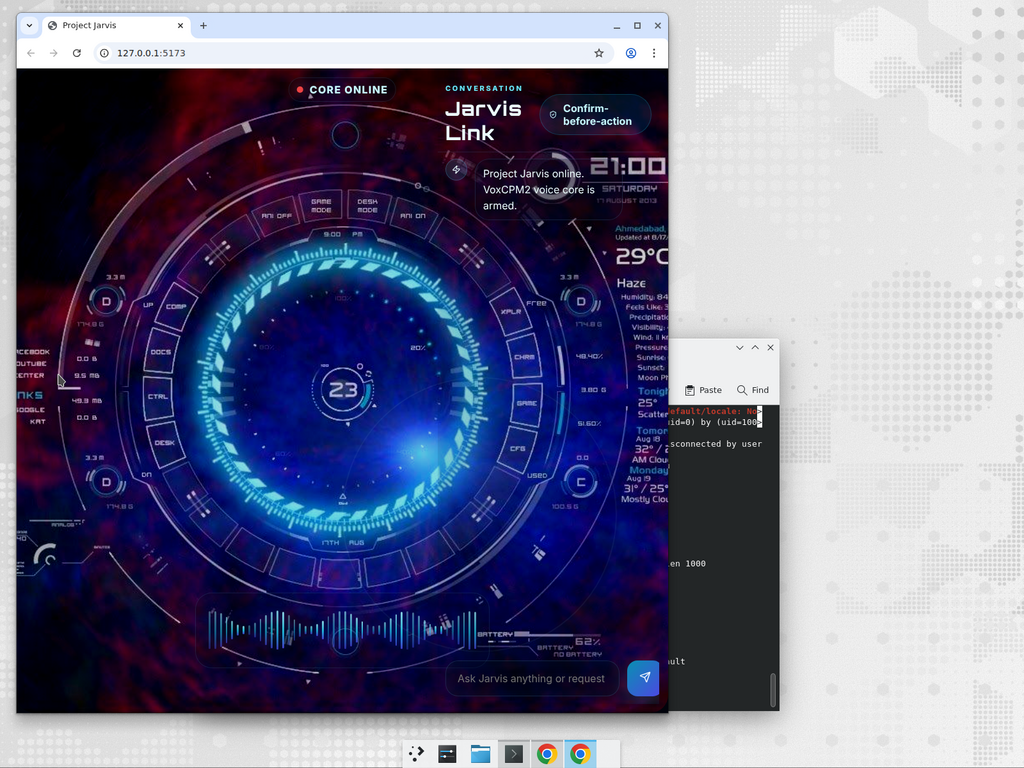
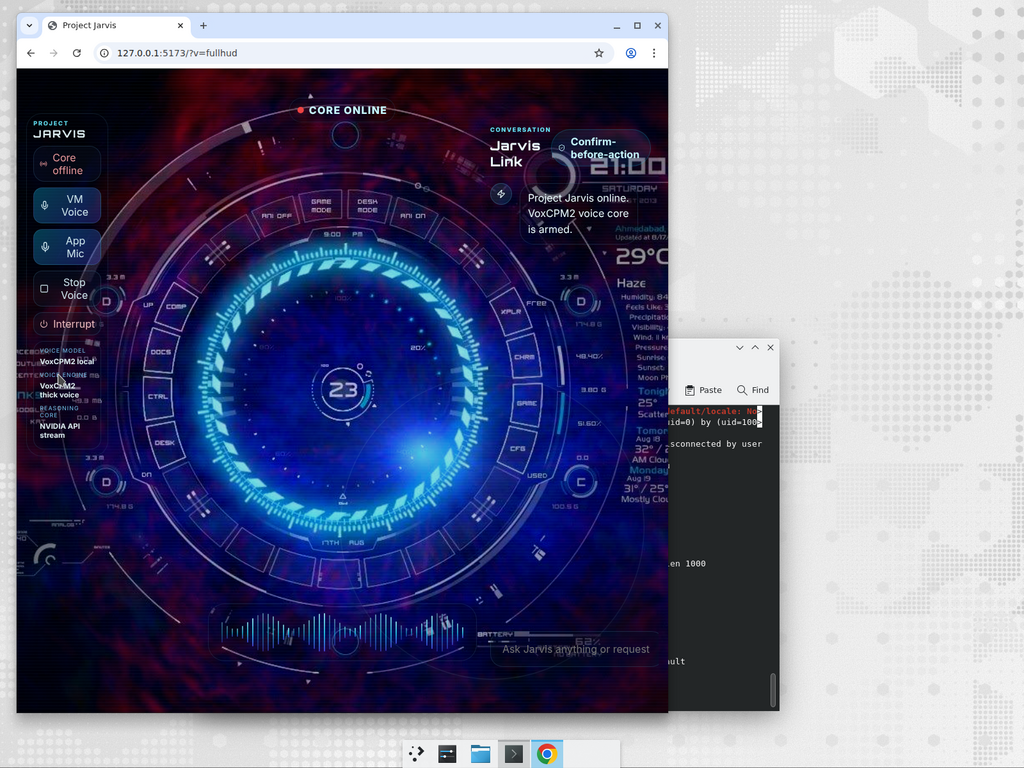
Make Jarvis desktop HUD full screen

diff --git a/jarvis-desktop/src/styles/app.css b/jarvis-desktop/src/styles/app.css
@@ -4,9 +4,7 @@
   width: 100vw;
   height: 100dvh;
   min-height: 100dvh;
-  display: grid;
-  grid-template-columns: 250px minmax(0, 1fr);
-  grid-template-rows: 100dvh;
+  display: block;
   overflow: hidden;
   background: #02040a;
 }
@@ -17,16 +15,17 @@
   width: 100%;
   height: 100%;
   object-fit: cover;
-  filter: saturate(1.25) contrast(1.08) brightness(0.82);
-  opacity: 0.98;
+  object-position: center center;
+  filter: saturate(1.28) contrast(1.08) brightness(0.95);
+  opacity: 1;
 }
 
 .hud-vignette {
   position: absolute;
   inset: 0;
   background:
-    radial-gradient(circle at 50% 46%, transparent 0 26%, rgba(2, 4, 10, 0.03) 42%, rgba(2, 4, 10, 0.38) 100%),
-    linear-gradient(90deg, rgba(2, 4, 10, 0.32), transparent 22%, transparent 72%, rgba(2, 4, 10, 0.3)),
+    radial-gradient(circle at 50% 47%, transparent 0 33%, rgba(2, 4, 10, 0.04) 52%, rgba(2, 4, 10, 0.3) 100%),
+    linear-gradient(90deg, rgba(2, 4, 10, 0.28), transparent 20%, transparent 76%, rgba(2, 4, 10, 0.2)),
     repeating-linear-gradient(180deg, rgba(125, 211, 252, 0.06), rgba(125, 211, 252, 0.06) 1px, transparent 1px, transparent 5px);
   mix-blend-mode: normal;
 }
@@ -38,23 +37,28 @@
 }
 
 .command-rail {
-  padding: 12px;
-  border-right: 1px solid rgba(125, 211, 252, 0.14);
-  background: linear-gradient(180deg, rgba(2, 6, 23, 0.1), rgba(8, 13, 28, 0.04));
-  backdrop-filter: blur(1px);
+  position: absolute;
+  left: 2.4vw;
+  top: 8vh;
+  width: 142px;
+  padding: 10px;
+  border: 1px solid rgba(125, 211, 252, 0.12);
+  border-radius: 24px;
+  background: rgba(2, 6, 23, 0.12);
+  backdrop-filter: blur(0.5px);
   display: flex;
   flex-direction: column;
   gap: 9px;
-  height: 100dvh;
+  height: auto;
   min-height: 0;
   overflow: hidden;
-  box-shadow: 30px 0 80px rgba(0, 0, 0, 0.12);
+  box-shadow: 0 0 40px rgba(34, 211, 238, 0.04);
 }
 
 .brand {
   display: flex;
   align-items: center;
-  gap: 14px;
+  gap: 8px;
   margin-bottom: 0;
 }
 
@@ -75,14 +79,14 @@
   display: block;
   color: #67e8f9;
   text-transform: uppercase;
-  letter-spacing: 0.24em;
-  font-size: 0.69rem;
+  letter-spacing: 0.18em;
+  font-size: 0.58rem;
   font-weight: 800;
 }
 
 .brand strong {
   display: block;
-  font: 800 1.28rem Orbitron, sans-serif;
+  font: 800 1rem Orbitron, sans-serif;
   letter-spacing: 0.12em;
 }
 
@@ -91,12 +95,12 @@
 .status-row {
   display: flex;
   align-items: center;
-  gap: 10px;
+  gap: 8px;
   color: #c7f9ff;
 }
 
 .connection {
-  padding: 9px 11px;
+  padding: 7px 9px;
   border: 1px solid rgba(125, 211, 252, 0.16);
   border-radius: 18px;
   background: rgba(15, 23, 42, 0.36);
@@ -113,11 +117,11 @@
 .rail-button {
   border: 1px solid rgba(125, 211, 252, 0.18);
   color: #e0faff;
-  border-radius: 18px;
+  border-radius: 14px;
   background: rgba(15, 23, 42, 0.4);
-  padding: 9px 11px;
+  padding: 7px 9px;
   display: flex;
-  gap: 12px;
+  gap: 8px;
   align-items: center;
   transition: transform 180ms ease, border 180ms ease, box-shadow 180ms ease;
 }
@@ -144,23 +148,23 @@
 .telemetry {
   margin-top: auto;
   display: grid;
-  gap: 8px;
-  padding: 11px;
-  border-radius: 22px;
+  gap: 4px;
+  padding: 9px;
+  border-radius: 16px;
   border: 1px solid rgba(125, 211, 252, 0.15);
   background: rgba(2, 6, 23, 0.24);
 }
 
 .telemetry span {
   color: #7dd3fc;
-  font-size: 0.72rem;
+  font-size: 0.56rem;
   text-transform: uppercase;
-  letter-spacing: 0.16em;
+  letter-spacing: 0.11em;
 }
 
 .telemetry strong {
-  margin-bottom: 8px;
-  font-size: 0.92rem;
+  margin-bottom: 5px;
+  font-size: 0.72rem;
 }
 
 .main-stage {
@@ -168,6 +172,7 @@
   display: block;
   padding: 0;
   height: 100dvh;
+  width: 100vw;
   min-height: 0;
   overflow: hidden;
 }
@@ -205,7 +210,7 @@
 }
 
 .hud-display img {
-  display: block;
+  display: none;
   position: absolute;
   inset: 0;
   width: 100%;
@@ -238,8 +243,8 @@
   left: 50%;
   top: 48%;
   transform: translate(-50%, -50%);
-  width: min(42vw, 560px);
-  height: min(42vw, 560px);
+  width: min(46vw, 640px);
+  height: min(46vw, 640px);
   border-radius: 50%;
   border: 1px solid rgba(165, 243, 252, 0.55);
   box-shadow: 0 0 70px rgba(34, 211, 238, 0.25), inset 0 0 70px rgba(34, 211, 238, 0.08);
@@ -247,7 +252,7 @@
 
 .status-row {
   position: absolute;
-  top: 14px;
+  top: 4.6vh;
   left: 50%;
   z-index: 4;
   transform: translateX(-50%);
@@ -385,17 +390,17 @@
 .waveform {
   position: absolute;
   left: 50%;
-  bottom: 7vh;
+  bottom: 8vh;
   transform: translateX(-50%);
-  height: clamp(78px, 12vh, 118px);
-  width: min(88%, 460px);
+  height: clamp(58px, 9vh, 92px);
+  width: min(54vw, 420px);
   display: flex;
   align-items: center;
   justify-content: center;
   gap: 6px;
   padding: 20px;
   border-radius: 26px;
-  background: rgba(2, 6, 23, 0.18);
+  background: rgba(2, 6, 23, 0.1);
   border: 1px solid rgba(125, 211, 252, 0.12);
 }
 
@@ -408,10 +413,10 @@
 
 .chat-panel {
   position: absolute;
-  top: 14px;
-  right: 14px;
-  bottom: 14px;
-  width: min(34vw, 460px);
+  top: 8vh;
+  right: 2.4vw;
+  bottom: 6vh;
+  width: min(24vw, 350px);
   display: flex;
   flex-direction: column;
   overflow: hidden;
@@ -427,13 +432,13 @@
 
 h1 {
   margin: 6px 0 0;
-  font: 800 1.9rem Orbitron, sans-serif;
+  font: 800 1.55rem Orbitron, sans-serif;
   letter-spacing: 0.04em;
 }
 
 .shield {
   border: 1px solid rgba(34, 211, 238, 0.22);
-  padding: 11px 14px;
+  padding: 8px 10px;
   border-radius: 999px;
   background: rgba(14, 165, 233, 0.1);
   font-weight: 700;
@@ -480,24 +485,19 @@ h1 {
 }
 
 @media (max-width: 1050px) {
-  .app-shell {
-    grid-template-columns: 1fr;
-  }
-
   .command-rail {
-    min-height: auto;
-    display: grid;
-    grid-template-columns: repeat(3, minmax(0, 1fr));
+    left: 1.5vw;
+    top: 7vh;
+    width: 128px;
   }
 
-  .brand,
-  .connection,
-  .telemetry {
-    grid-column: 1 / -1;
+  .chat-panel {
+    right: 1.5vw;
+    width: min(27vw, 330px);
   }
 
-  .main-stage {
-    grid-template-columns: 1fr;
+  h1 {
+    font-size: 1.25rem;
   }
 }
 
@@ -505,7 +505,7 @@ h1 {
   display: grid;
   grid-template-columns: 34px minmax(0, 1fr);
   gap: 12px;
-  max-width: 86%;
+  max-width: 92%;
   align-self: flex-start;
 }
 
@@ -534,7 +534,7 @@ h1 {
   line-height: 1.55;
   border-radius: 22px;
   border: 1px solid rgba(125, 211, 252, 0.15);
-  background: rgba(2, 6, 23, 0.34);
+  background: rgba(2, 6, 23, 0.28);
   box-shadow: 0 14px 40px rgba(0, 0, 0, 0.2);
 }
 
@@ -598,7 +598,7 @@ h1 {
   color: #ecfeff;
   border-radius: 20px;
   padding: 17px 18px;
-  background: rgba(2, 6, 23, 0.38);
+  background: rgba(2, 6, 23, 0.3);
   box-shadow: inset 0 0 26px rgba(34, 211, 238, 0.05);
 }
 
